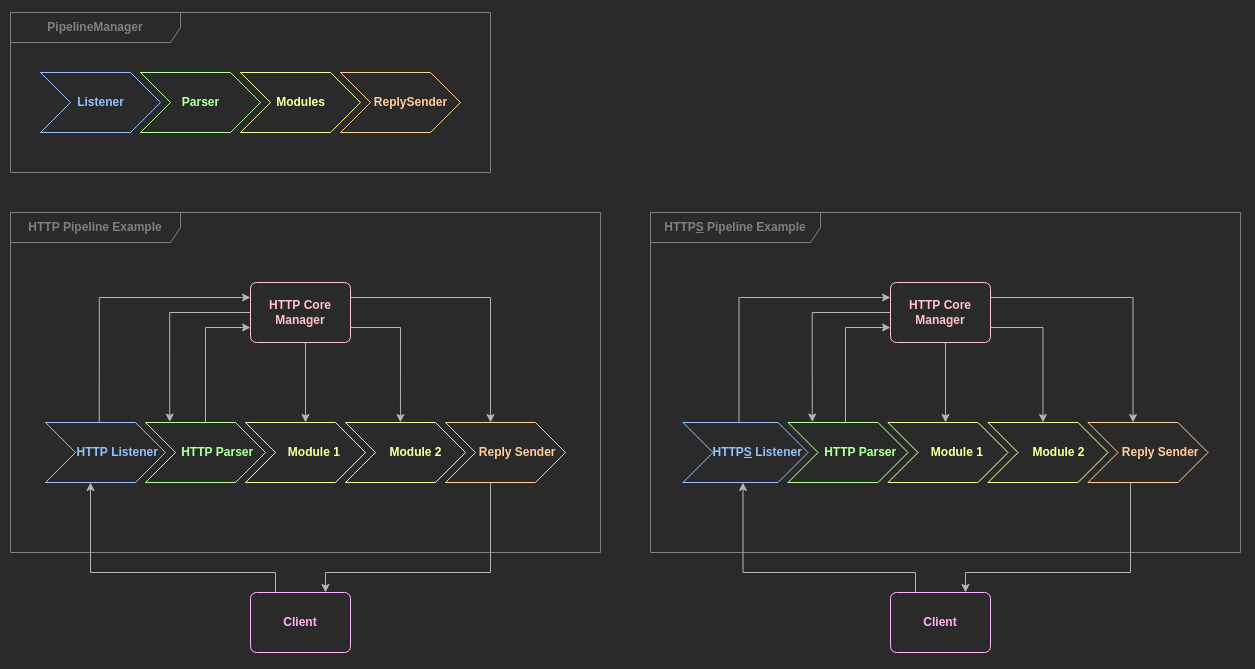
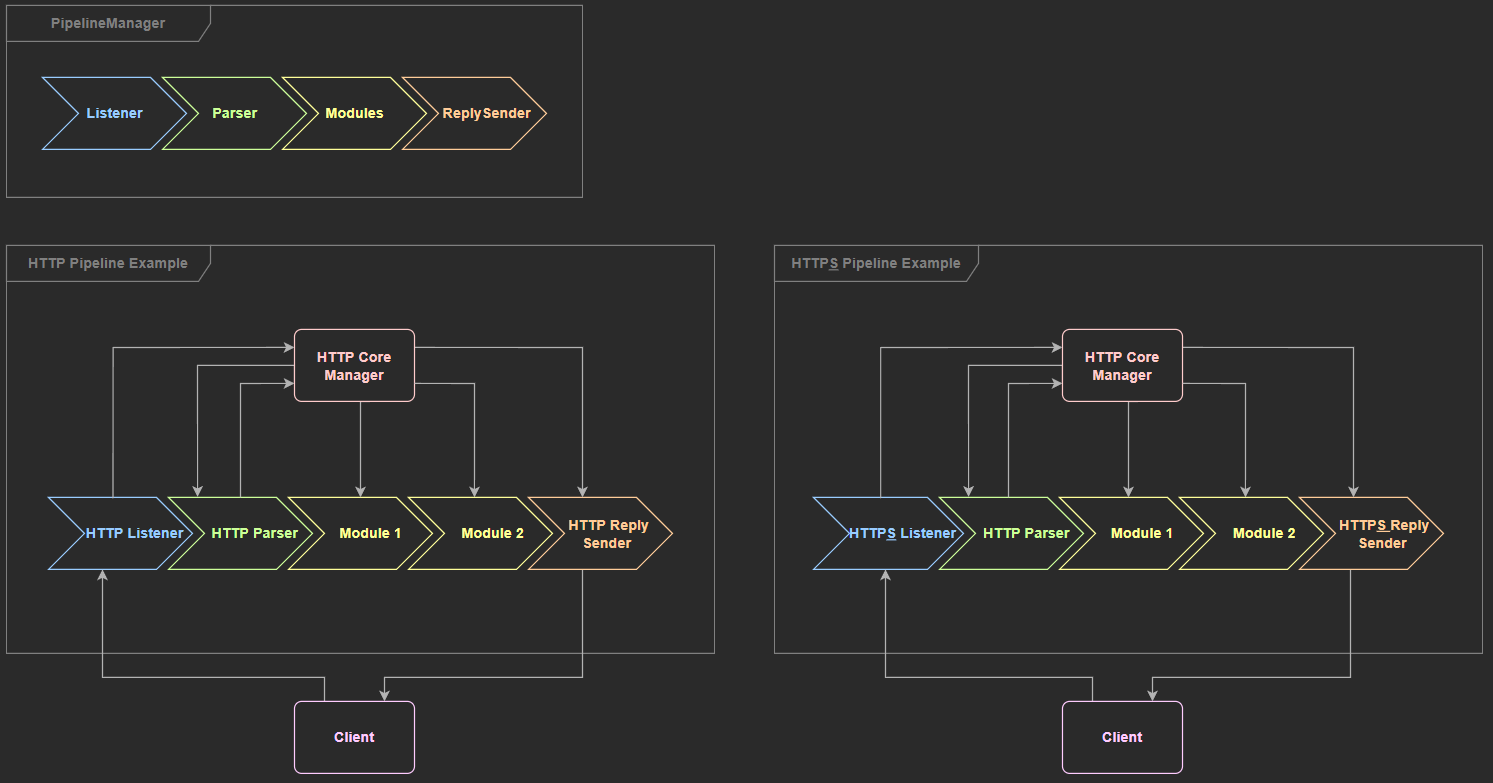
docs: update readme.md

diff --git a/readme.md b/readme.md
@@ -30,8 +30,8 @@ Here is a small overview of how a pipeline works:
 
 Pipeline request workflow:
 ![Pipeline request workflow](doc/images/request_workflow.png)
-*note that the only difference http and https pipeline is the listener (the HTTPS one will decrypt SSL)
-as the pipeline is extremely modular*
+*note that the only differences between http and https pipeline are the listener (the HTTPS one will decrypt SSL) and the
+sender (the http one will encrypt using SSL) as the pipeline is extremely modular*
 
 ## Installation
 
